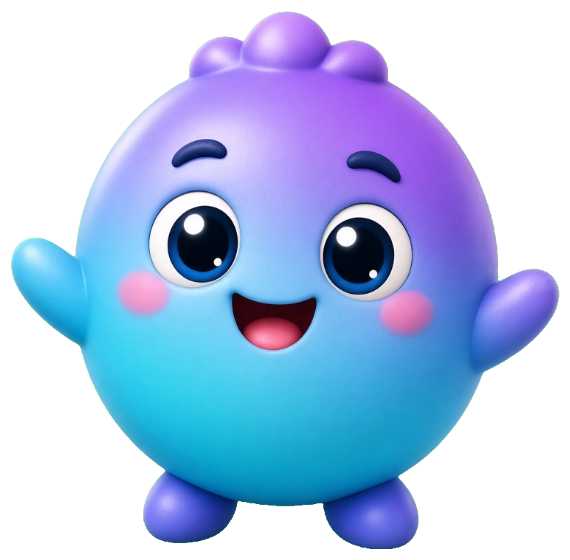
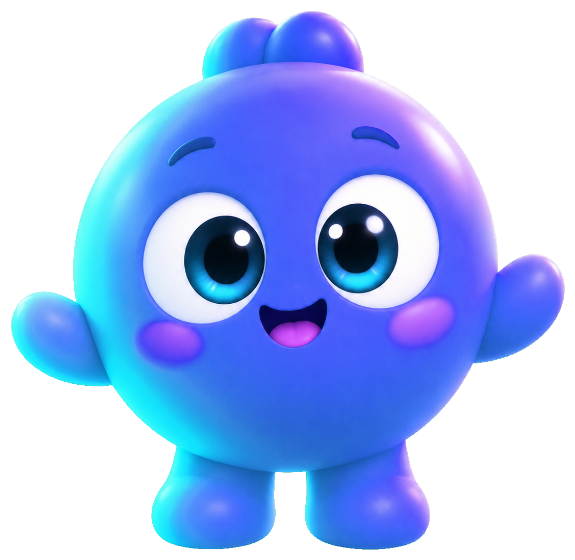
feat(app): trois poses regenerees, et le pipeline cesse de les verdir
Perplexe, liste vide et recherche sans resultat sont remplacees par de
nouveaux rendus. Passees telles quelles dans le pipeline, elles sortaient
avec un flanc VERT.

La cause n est pas le detourage mais l alignement de teinte. L outil mesurait
la teinte dominante de la pose et la tournait vers celle de la reference :
la moyenne tombait juste, mais l etalement du degrade, lui, n etait pas
compare. Ces rendus-la sont plus froids que les anciens — 2e centile de
teinte a 161-171 degres contre 188 pour la reference — et une rotation qui
ne deplace que la moyenne les laisse dans le cyan-vert.

`tools/mascot/build.js` compare desormais le bout froid du degrade a celui
de la reference et le remonte. Sans couper net : en deca du plancher l ecart
est comprime, la transformation reste continue et le degrade garde son
modele. Le rose des joues, au-dessus du plancher, n est pas touche.
Resultat : 161 -> 180, 171 -> 183, 166 -> 181, et les anciennes poses ne
bougent pas (184 -> 187).

Les six poses embarquees tiennent maintenant dans 2,5 degres de teinte.

Trois autres sont retirees — hors-ligne, en train de lire, celebration.
Elles etaient generees mais aucun ecran ne les affichait : un asset que rien
n affiche pese dans l APK et laisse croire que la fonctionnalite existe.
700 Ko en moins, et l enum ne promet plus que ce que l app tient. Leurs
prompts restent dans la fiche mascotte.

Claude-Session: https://claude.ai/code/session_017rRf5GAPQoTpZEN5mMJnkC

diff --git a/tools/mascot/build.js b/tools/mascot/build.js
@@ -92,6 +92,56 @@ function dominantHue({ w, h, px }) {
   return ((Math.atan2(y, x) / (2 * Math.PI)) + 1) % 1;
 }
 
+/**
+ * Teinte au centile [p] parmi les pixels du corps, en tours.
+ *
+ * Sert à comparer non pas la teinte moyenne de deux rendus, mais
+ * l'**étalement** de leur dégradé : c'est lui qui diffère d'un lot de
+ * génération à l'autre, et une moyenne identique peut cacher un bout froid
+ * bien plus froid.
+ */
+function huePercentile(img, p) {
+  const { w, h, px } = img;
+  const hues = [];
+  for (let i = 0; i < w * h * 4; i += 4) {
+    if (px[i + 3] < 250) continue;
+    const [hue, sat, lum] = rgbToHsl(px[i], px[i + 1], px[i + 2]);
+    if (sat < 0.25 || lum > 0.92 || lum < 0.12) continue;
+    hues.push(hue);
+  }
+  hues.sort((a, b) => a - b);
+  return hues[Math.floor(hues.length * p)];
+}
+
+/**
+ * Remonte le bout froid du dégradé au-dessus de [floor].
+ *
+ * Les rendus du générateur n'ont pas tous le même étalement de teintes. Un
+ * lot plus froid que la référence descend jusqu'au cyan-vert ; la rotation,
+ * qui ne fait que déplacer la moyenne, l'y laisse. Le flanc de la mascotte
+ * virait alors au vert (constaté le 23/09 sur les trois poses régénérées).
+ *
+ * On ne coupe pas net — ce serait une bande de couleur unie sur le contour.
+ * En deçà du plancher, l'écart est comprimé : la transformation reste
+ * continue, le dégradé garde son modelé, et rien ne descend plus dans le
+ * vert. Au-dessus du plancher, y compris le rose des joues, rien ne bouge.
+ */
+function liftCoolTail(px, floor, keep = 0.3) {
+  for (let i = 0; i < px.length; i += 4) {
+    if (px[i + 3] === 0) continue;
+    const [hue, sat, lum] = rgbToHsl(px[i], px[i + 1], px[i + 2]);
+    if (sat === 0 || hue >= floor) continue;
+    // Seule la famille des bleus est concernée : au-delà, une teinte basse
+    // est un jaune ou un rouge, qui n'a rien à voir avec ce dégradé.
+    if (hue < floor - 0.2) continue;
+    const lifted = floor - (floor - hue) * keep;
+    const [r, g, b] = hslToRgb(lifted, sat, lum);
+    px[i] = r;
+    px[i + 1] = g;
+    px[i + 2] = b;
+  }
+}
+
 /** Tourne la teinte de chaque pixel opaque de [delta] tours. */
 function rotateHue(px, delta) {
   if (Math.abs(delta) < 1e-4) return;
@@ -258,8 +308,14 @@ function fit(img, box, height) {
 
 // -------------------------------------------------------------------- main
 
-const target = dominantHue(decode(fs.readFileSync(REFERENCE)));
-console.log(`teinte de référence : ${(target * 360).toFixed(1)}°`);
+const reference = decode(fs.readFileSync(REFERENCE));
+const target = dominantHue(reference);
+/** Le bleu le plus froid que la référence s'autorise. Rien ne descend en dessous. */
+const floor = huePercentile(reference, 0.02);
+console.log(
+  `référence : teinte ${(target * 360).toFixed(1)}°, ` +
+    `plancher ${(floor * 360).toFixed(1)}°`,
+);
 
 const files = fs
   .readdirSync(SRC)
@@ -278,12 +334,16 @@ for (const file of files) {
   if (delta > 0.5) delta -= 1;
   if (delta < -0.5) delta += 1;
   rotateHue(cut.px, delta);
+  const before = huePercentile(cut, 0.02);
+  liftCoolTail(cut.px, floor);
 
   const out = fit(cut, bounds(cut), TARGET_HEIGHT);
   const dest = path.join(OUT, file);
   fs.writeFileSync(dest, encode(out));
   console.log(
     `${file} : ${(hue * 360).toFixed(1)}° → rotation ${(delta * 360).toFixed(1)}°` +
+      `, bout froid ${(before * 360).toFixed(0)}° → ` +
+      `${(huePercentile(cut, 0.02) * 360).toFixed(0)}°` +
       `, ${out.w}x${out.h}, ${Math.round(fs.statSync(dest).size / 1024)} Ko`,
   );
 }

diff --git a/app/lib/shared/widgets/mascot.dart b/app/lib/shared/widgets/mascot.dart
@@ -6,6 +6,12 @@ import 'package:lymarks/core/theme/app_colors.dart';
 /// Une pose par situation, jamais deux à l'écran en même temps. Elle
 /// accompagne le vide et l'échec — pas le succès courant : une carte qui se
 /// résume normalement n'a pas besoin d'un personnage (`02-ux/03-mascotte.md`).
+///
+/// Six poses, et six seulement : celles qui ont un écran. Trois autres
+/// avaient été générées — lecture en cours, hors-ligne, célébration — et
+/// n'étaient branchées nulle part. Un asset qu'aucun écran n'affiche pèse
+/// dans l'APK et ment sur ce que l'app sait faire ; leurs prompts restent
+/// dans `02-ux/03-mascotte.md` si un écran vient à les réclamer.
 enum MascotPose {
   /// De face, souriante. Onboarding, et repli de toute pose manquante.
   idle('mascot.png'),
@@ -13,20 +19,11 @@ enum MascotPose {
   /// Bras ouverts : une liste vide, une invitation à capturer.
   empty('mascot-empty.png'),
 
-  /// Câble débranché : hors-ligne, patiente, rien n'est perdu.
-  offline('mascot-offline.png'),
-
   /// Haussement d'épaule : Lymarks n'a pas su lire la page.
   puzzled('mascot-puzzled.png'),
 
-  /// Penchée sur une fiche : le résumé est en cours.
-  reading('mascot-reading.png'),
-
   /// Main en visière : la recherche n'a rien trouvé.
   searching('mascot-searching.png'),
-
-  /// Bras levés : un palier franchi. À garder rare, sinon il ne vaut plus rien.
-  celebrating('mascot-celebrating.png'),
 
   /// Assoupie : rien à faire remonter aujourd'hui.
   sleeping('mascot-sleeping.png'),

diff --git a/02-ux/03-mascotte.md b/02-ux/03-mascotte.md
@@ -67,7 +67,7 @@ Demande un fond vert uni : je le découpe proprement, et c'est sans ambiguïté.
 
 Chaque bloc ci-dessous est un **prompt complet** : copie-le entier, d'un seul tenant. Le personnage et le cadrage y sont déjà, tu n'as rien à assembler. Joins en plus `app/branding/mascot.png` comme image de référence si ton outil le permet.
 
-Les quatre premières servent des écrans qui existent déjà dans l'app ; les quatre suivantes préparent ceux à venir.
+**Six poses sont embarquées dans l'app** : perplexe, liste vide, recherche sans résultat, endormie, salut, et le rendu de face d'origine (`mascot.png`). Les trois autres — hors-ligne, en train de lire, célébration — ont été générées puis **retirées le 23/09** : aucun écran ne les affichait, et un asset qu'aucun écran n'affiche pèse dans l'APK tout en laissant croire que la fonctionnalité existe. Leurs prompts restent ci-dessous : le jour où un écran les réclame, la génération est prête.
 
 ### 1. Perplexe → `mascot-puzzled.png`
 
@@ -292,18 +292,39 @@ La pose « la mascotte dépasse derrière une carte » (deuxième écran de l'on
 
 ## 3. Ce que je fais des fichiers
 
-Dépose-les dans `app/branding/poses/`, nommés comme ci-dessus. Je m'occupe de :
+Dépose-les dans `app/branding/poses/`, nommés comme ci-dessus, puis lance :
 
-1. **Détourage** du fond vert, avec un contour propre (même traitement que le
-   rendu d'origine : `scratchpad/decheck.js`, remplissage depuis les bords).
-2. **Rotation de teinte de −35°**, la même pour toutes : c'est elle qui garantit
-   que deux poses ont exactement le même bleu.
-3. **Recadrage et mise à l'échelle** sur la hauteur d'affichage réelle, puis
-   encodage PNG filtré (une pose pèse ~380 Ko en 780 px, ~120 Ko en 420 px).
-4. **Déclaration en asset** et branchement sur l'état concerné.
+```
+node tools/mascot/build.js
+```
+
+Il fait quatre choses, dans cet ordre :
+
+1. **Détourage** du fond vert. Le remplissage part des bords plutôt que de viser
+   tout ce qui est vert, sinon un reflet vert **dans** le sujet deviendrait
+   transparent. Le « despill » ramène ensuite le vert qui a bavé sur le contour,
+   sans quoi la mascotte garde un liseré fluo.
+2. **Alignement de teinte sur `mascot.png`**, et non une rotation fixe : deux
+   rendus du même prompt ne sortent jamais du même violet. L'outil mesure la
+   teinte dominante de chaque pose et la tourne vers celle de la référence.
+3. **Remontée du bout froid du dégradé.** Ajoutée le 23/09, après que trois
+   poses régénérées soient sorties avec un flanc **vert**. La rotation ne
+   déplace que la moyenne : un lot plus froid que la référence descend jusqu'au
+   cyan-vert et y reste. L'outil compare désormais le 2ᵉ centile de teinte de
+   la pose à celui de la référence (188°) et comprime ce qui passe en dessous —
+   sans couper net, pour que le dégradé garde son modelé. Le rose des joues,
+   au-dessus du plancher, n'est pas touché.
+4. **Recadrage et mise à l'échelle** sur 560 px de haut, la hauteur d'affichage
+   réelle (120 à 180 dp sur un écran 3x), puis encodage PNG. Une pose pèse
+   260 à 360 Ko.
 
 Ne retouche rien toi-même : si une pose part d'un fichier traité autrement, sa
 couleur ne tombera pas sur celle des autres.
+
+**Vérification** : après un passage, les six poses doivent tenir dans une
+poignée de degrés de teinte les unes des autres. Au 23/09 elles sont entre 220°
+et 222,5°, pour une saturation de 76 à 85 % — sauf `mascot.png`, à 63 %, qui
+n'est jamais passée par ce pipeline puisqu'elle en est la référence.
 
 ## 4. Règles d'emploi dans l'app
 

diff --git a/09-produit/04-changelog.md b/09-produit/04-changelog.md
@@ -21,6 +21,7 @@ Format : [Keep a Changelog](https://keepachangelog.com/fr/) · versions sémanti
 - Ensemble documentaire initial (docs/) — 2026-08-07.
 
 ### Changed
+- **Trois poses de la mascotte régénérées et accordées** — perplexe, liste vide, recherche sans résultat. Le pipeline alignait la teinte moyenne sur la référence, ce qui laissait passer un écart d'étalement : les nouveaux rendus descendaient jusqu'au cyan-vert et le flanc de la mascotte virait au vert. `tools/mascot/build.js` compare désormais le bout froid du dégradé à celui de la référence et le remonte. Les six poses embarquées tiennent dans 2,5° de teinte. **Trois autres retirées** (hors-ligne, en train de lire, célébration) : aucun écran ne les affichait — 700 Ko d'assets en moins — 2026-09-23.
 - **Inter passe en version variable**, et l'interface respire : un fichier au lieu de quatre (876 Ko contre 1,3 Mo), l'axe `wght` continu et surtout l'axe `opsz` calé sur la taille du texte — les grands titres se resserrent, les petites tailles s'ouvrent. Au passage : interligne du corps à 1,5, et les captions (domaine, date, chips) en regular plutôt qu'en medium, le gris secondaire portant déjà le retrait. Les 25 rendus de référence régénérés — 2026-09-23.
 - **Le chemin d'une catégorie mène aux lymarks, plus aux clusters.** Le regroupement automatique n'a jamais été spécifié et les clusters n'existaient qu'en démo : l'écran affichait donc un chemin que le mode réel ne pouvait pas tracer. Les nœuds sont désormais les lymarks eux-mêmes. `KnowledgeCluster`, `Lymark.clusterId` et l'écran Cluster retirés — 2026-09-23.
 - La mascotte est figée partout sauf à l'onboarding : un personnage qui flotte pendant qu'on lit un message d'échec attire le regard au lieu de l'accompagner — 2026-09-23.
